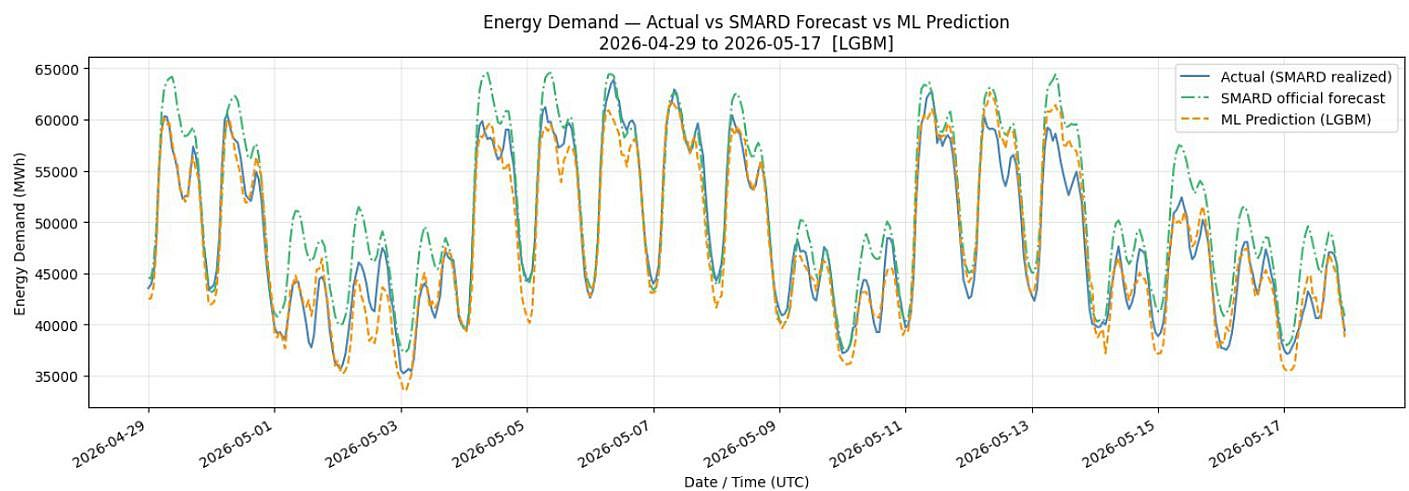
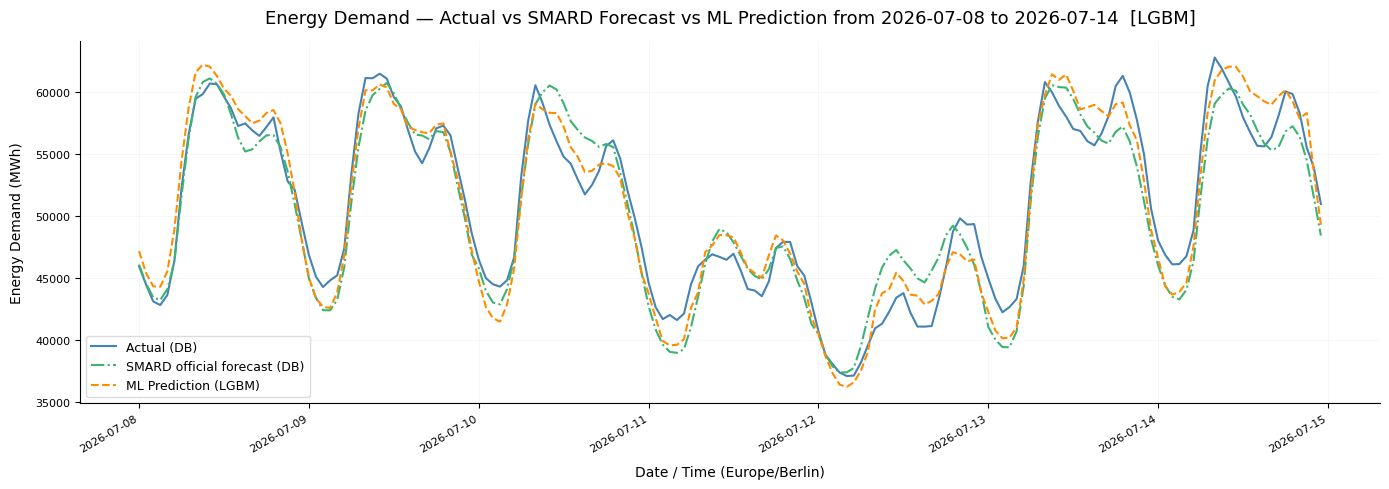
updated energy demand forecast project

diff --git a/src/ProjectDetail.jsx b/src/ProjectDetail.jsx
@@ -287,7 +287,7 @@ const PROJECT_DATA = {
     problem: {
       title: "Problem",
       content:
-        "Kurzfristige Prognosen des Stromverbrauchs sind ein Kernproblem im Energiesektor. Genaue Vorhersagen helfen bei der Netzsteuerung und der Einsatzplanung von Kraftwerken.",
+        "Kurzfristige Lastprognosen unterstützen Netzsteuerung und Einsatzplanung. Ziel ist eine operative, stündliche Day-Ahead-Prognose für Deutschland, die sich transparent mit realen Verbrauchswerten und der offiziellen SMARD-Prognose vergleichen lässt.",
       challenges: [
         "Unterschiedliche Zeitformate aus verschiedenen Quellen (SMARD, Wetterdaten)",
         "Starke Saisonalität: täglich, wöchentlich und jährlich überlagerte Muster",
@@ -296,46 +296,51 @@ const PROJECT_DATA = {
         "Wetterdatenaggregation mit der Population ausgewählter Städte als Gewichtung",
         "Auswahl geeigneter Lag-Features ohne Data Leakage",
         "Robuste Evaluierung durch zeitbasierten Train-Test-Split und Kreuzvalidierung",
+        "Operative Vorhersage für morgen trotz verzögert verfügbarer Ist-Daten",
       ],
     },
     approach: {
       title: "Daten & Ansatz",
-      dataset: "Öffentliche Stromverbrauchsdaten für Deutschland (stündliche Auflösung)",
+      dataset: "Stündliche Lastdaten 2019–2025 aus ENTSO-E/Kaggle sowie aktuelle Ist- und Prognosedaten von SMARD; historische und vorhergesagte Wetterdaten von Open-Meteo, bevölkerungsgewichtet über fünf deutsche Großstädte.",
       methodology: [
         "Explorative Datenanalyse: saisonale Dekompositionen und Autokorrelationen",
         "Feature Engineering: Kalender-Features, Lag-Features, Rolling-Window-Statistiken",
-        "Saisonell-naive und Moving-Average-Baselines für Stromverbrauchs- und Wetterdaten",
-        "Baseline-Modelle: Linear Regression, Random Forest, XGBoost, LightGBM, SVR",
-        "Vergleich der ML-Vorhersage gegen reale SMARD-Daten und SMARD-Prognose",
-        "Fehleranalyse: MAE, RMSE und visuelle Residuendiagnostik",
+        "Zeitbasierter Split: Training 2019–2024, Test 2025; TimeSeriesSplit statt zufälliger Kreuzvalidierung",
+        "Modellvergleich: Linear Regression, Random Forest, SVR, XGBoost und LightGBM",
+        "Bayesian Optimization mit Optuna und Exploration asymmetrischer Verlustfunktionen/Quantilregression",
+        "Aktuelle Netzlast und offizielle Day-Ahead-Prognose über die SMARD-Filter 410 und 411",
+        "Historischer Dreifachvergleich von Ist-Werten, SMARD-Prognose und ML-Prognose mit MAE und RMSE",
       ],
-      tools: ["Pandas", "scikit-learn", "sklearn-optimizer", "XGBoost", "LightGBM", "SQLite", "Matplotlib", "Streamlit", "Jupyter"],
+      tools: ["Python", "Pandas", "scikit-learn", "Optuna", "XGBoost", "LightGBM", "Matplotlib", "Streamlit", "Jupyter", "SMARD API", "Open-Meteo API"],
     },
     solution: {
       title: "Lösung",
-      content: "ML-Pipeline mit Feature Engineering und Kreuzvalidierung für kurzfristige Strombedarfsprognosen.",
+      content: "Modulare End-to-End-ML-Anwendung für Datenabruf, Feature Engineering, Modelltraining, Day-Ahead-Prognose und interaktive Auswertung.",
       features: [
-        "Manuelles und automatisiertes Feature Engineering für Zeitreihen",
+        "Wiederverwendbare Python-Module für Datenaufbereitung, Training und Vorhersage",
+        "Kalender-, Wetter-, Lag- und Rolling-Window-Features für stündliche Zeitreihen",
         "Zeitbasierte Train-Test-Splits zur Vermeidung von Data Leakage",
-        "Hyperparameter-Optimierung mit Bayesian Optimization für LightGBM und XGBoost",
-        "Interaktive Visualisierungen der Prognoseergebnisse",
-        "Vergleich von Prognose und realen Verbrauchsdaten von SMARD",
+        "Hyperparameter-Optimierung mit Bayesian Optimization/Optuna",
+        "Streamlit-App mit separaten Tabs für die Prognose von morgen und historische Vergleiche",
+        "Dreifachvergleich von ML-Prognose, realer SMARD-Netzlast und offizieller SMARD-Prognose",
       ],
     },
     results: {
       title: "Ergebnisse",
       metrics: [
-        { label: "Beste Modelle", value: "XGBoost + LightGBM", change: "Tuned mit Bayesian Optimization" },
-        { label: "Konservative Modelle", value: "bis 5% Unterschätzung", change: "Asymetrische Verlustfunktionen" },
+        { label: "Datenzeitraum", value: "2019–2025", change: "stündliche Last" },
+        { label: "Modellvergleich", value: "5 Modelle", change: "inkl. RF, XGBoost, LightGBM" },
         { label: "Prognosehorizont", value: "24h", change: "stündlich" },
-        { label: "Visualisierung", value: "Notebook + Streamlit", change: "Vergleich Prognose vs. Realität" },
+        { label: "Vergleich", value: "3 Kurven", change: "Ist, SMARD, ML" },
+        { label: "Interface", value: "Streamlit", change: "2 Analyse-Tabs" },
       ],
       insights: [
         "Baseline-Modelle mit saisonalen Mittelwerten und gleitenden Durchschnitten liefern bereits eine solide Prognose",
-        "XGBoost und LightGBM tuned mit Bayesian Optimization für stabile Prognosen mit konservativem Bias",
+        "Baumbasierte Modelle übertreffen die lineare Baseline deutlich; Random Forest zeigte im dokumentierten Vergleich die beste Performance",
         "Feature Engineering hat größeren Einfluss auf die Prognosegenauigkeit als die Wahl des ML-Modells",
         "Lag-Features des Vortages und der Vorwoche liefern hohen Informationsgehalt",
-        "Historische Verbrauch und Kalender-Features sind entscheidend für die Prognosegenauigkeit",
+        "Historischer Verbrauch und Kalender-Features sind entscheidend für die Prognosegenauigkeit",
+        "Der direkte Vergleich mit der offiziellen SMARD-Prognose macht Modellgüte und Abweichungen fachlich greifbar",
       ],
     },
     learnings: {
@@ -345,12 +350,15 @@ const PROJECT_DATA = {
         "Feature Engineering bei Zeitreihen erfordert sorgfältige Planung der Lag-Fenster",
         "EDA deckte wichtige saisonale Muster auf",
         "Vergleich mit Live-Daten von SMARD ermöglichte realistische Evaluierung und Modellanpassungen",
+        "Die Trennung in Daten-, Trainings- und Vorhersagemodule macht Notebook und Web-App reproduzierbar nutzbar",
       ],
       improvements: [
         "Zeitformat und Zeitzonen-Handling von Anfang an standardisieren",
         "Variablenbenennung in Funktionen vereinheitlichen",
         "Visualisierungsstil in allen Plots vereinheitlichen",
-        "Datenbank für das Folgeprojekt vorbereiten",
+        "ETL-Pipeline und automatisierte Aktualisierung weiter ausbauen",
+        "Quantilregression und asymmetrische Verlustfunktionen systematisch evaluieren",
+        "SARIMAX als zusätzliche Zeitreihen-Benchmark untersuchen",
       ],
     },
     resources: {
@@ -380,13 +388,13 @@ const PROJECT_DATA = {
         title: "Prognose vs. Historie",
         type: "line",
         src: getImagePath("energy-demand-forecast/prediction-historical.jpg"),
-        description: "Vergleich: Modellprognose und reale Verbrauchsdaten.",
+        description: "Historischer Vergleich von Ist-Verbrauch, offizieller SMARD-Prognose und ML-Prognose inklusive MAE und RMSE.",
       },
       {
         title: "Prognose für den nächsten Tag",
         type: "line",
         src: getImagePath("energy-demand-forecast/prediction-tomorrow.jpg"),
-        description: "Modellprognose für den nächsten Tag im Vergleich zu SMARD.",
+        description: "Stündliche ML-Prognose für den nächsten Tag zusammen mit der offiziellen SMARD-Day-Ahead-Prognose.",
       },
     ],
   },

diff --git a/src/yuchuan_portfolio_static_site_starter.jsx b/src/yuchuan_portfolio_static_site_starter.jsx
@@ -60,14 +60,14 @@ const PROJECTS = [
     title: "Stromverbrauchs-Prognose Deutschland",
     date: "2026-05",
     summary:
-      "Kurzfristige Strombedarfsprognose anhand realer Verbrauchsdaten von SMARD und Wetterdaten.",
+      "End-to-End-Day-Ahead-Prognose des stündlichen Stromverbrauchs in Deutschland mit SMARD-, Wetter- und Kalenderdaten.",
     highlights: [
-      "ML-Vorhersage vs. reale Daten und SMARD-Prognose",
-      "Modulare Datenpipeline mit wiederverwendbaren Komponenten",
-      "Asymmetrische Verlustfunktion für Unterschätzung",
-      "Interaktive Streamlit-Anwendung und Notebook-Auswertung",
+      "Dreifachvergleich: Ist-Verbrauch vs. SMARD-Prognose vs. ML-Prognose",
+      "Modulare Python-Pipeline für Datenabruf, Feature Engineering, Training und Vorhersage",
+      "Optuna-Tuning und Exploration asymmetrischer Verlustfunktionen sowie Quantilregression",
+      "Streamlit-App mit Tomorrow Forecast und frei wählbarem historischem Vergleich",
     ],
-    stack: ["Pandas", "scikit-learn", "sklearn-optimizer", "XGBoost", "LightGBM", "SQLite", "Matplotlib", "Streamlit"],
+    stack: ["Python", "Pandas", "scikit-learn", "Optuna", "XGBoost", "LightGBM", "SMARD", "Open-Meteo", "Streamlit"],
     repo: "https://github.com/SW-oasen/electricity_demand_forecast",
     live: null,
     video: null,
@@ -118,6 +118,12 @@ const PROJECTS = [
 ];
 
 const LEARNING = [
+    {
+    date: "2026-06",
+    title: "AI RAG-System mit lokalen LLMs und OCR",
+    details:
+      "Lokales RAG-System für Dokumentenanalyse mit Ollama, ChromaDB, Sentence Transformers und Tesseract OCR entwickelt. Streamlit-App für Upload, Analyse und semantische Suche implementiert.",
+  },
   {
     date: "2026-06",
     title: "Überarbeitung bestehender Turbine-Maintenance-Projekt und Telco-Customer-Churn-Projekt",
@@ -134,7 +140,7 @@ const LEARNING = [
     date: "2026-05",
     title: "Stromverbrauchsprognose mit Zeitreihenanalyse",
     details:
-      "Portfolio-Projekt zur kurzfristigen Strombedarfsprognose mit Feature Engineering, ML, Vergleich mit SMARD-Realdaten und SMARD-Prognose.",
+      "End-to-End-Pipeline und Streamlit-App für Day-Ahead-Lastprognosen umgesetzt – inklusive SMARD-Live-Daten, offizieller SMARD-Prognose und historischem Drei-Kurven-Vergleich mit MAE und RMSE.",
   },
   {
     date: "2026-05",